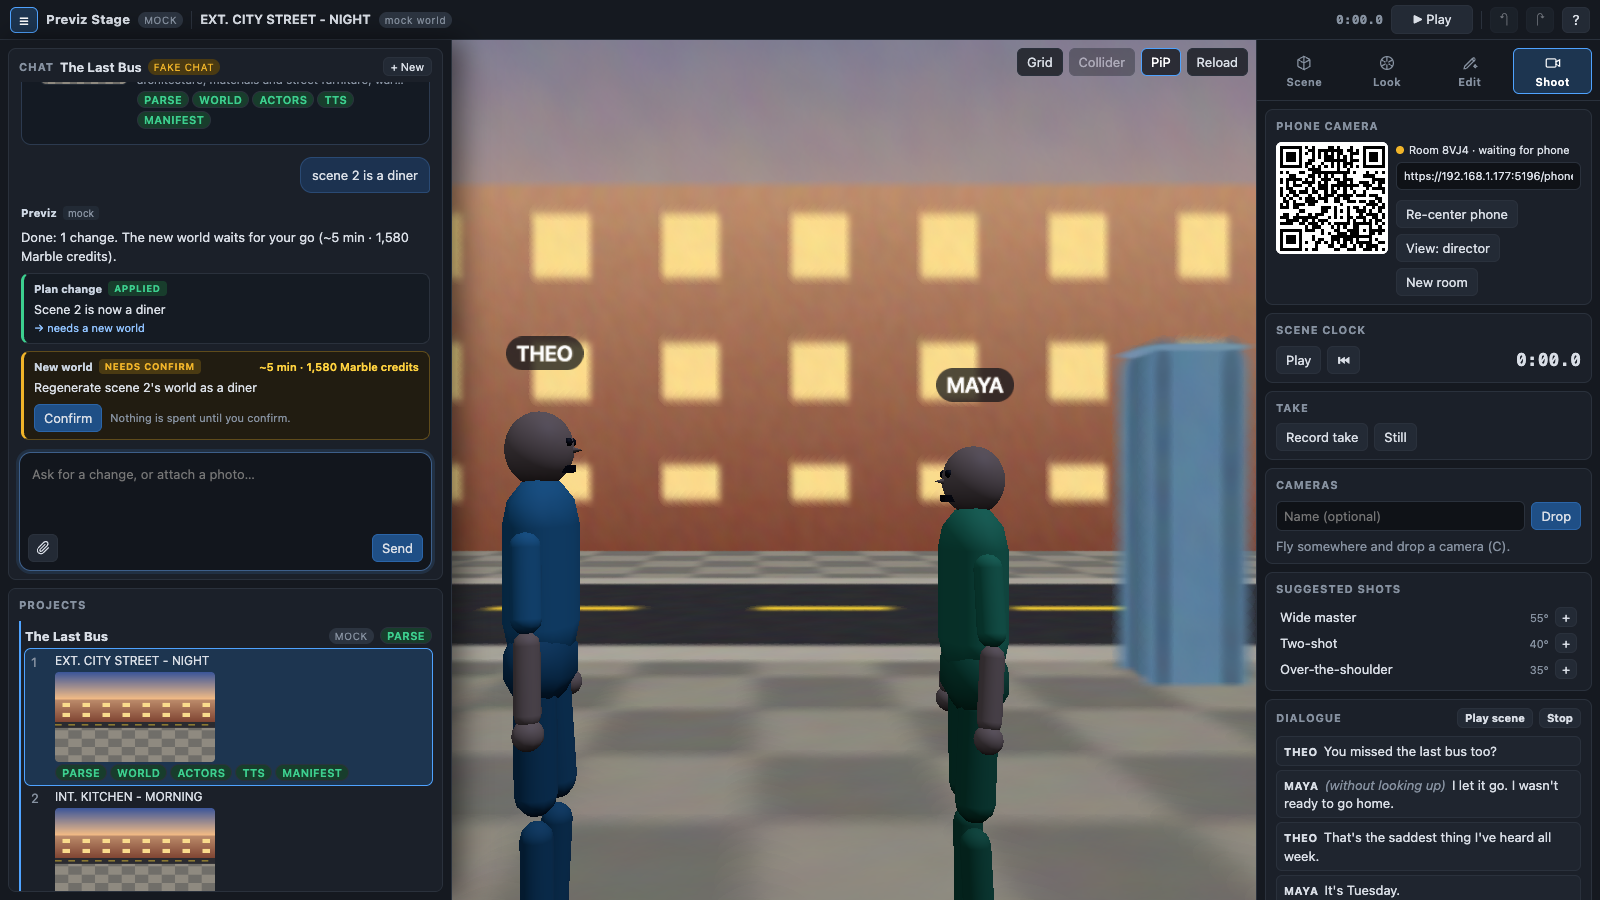
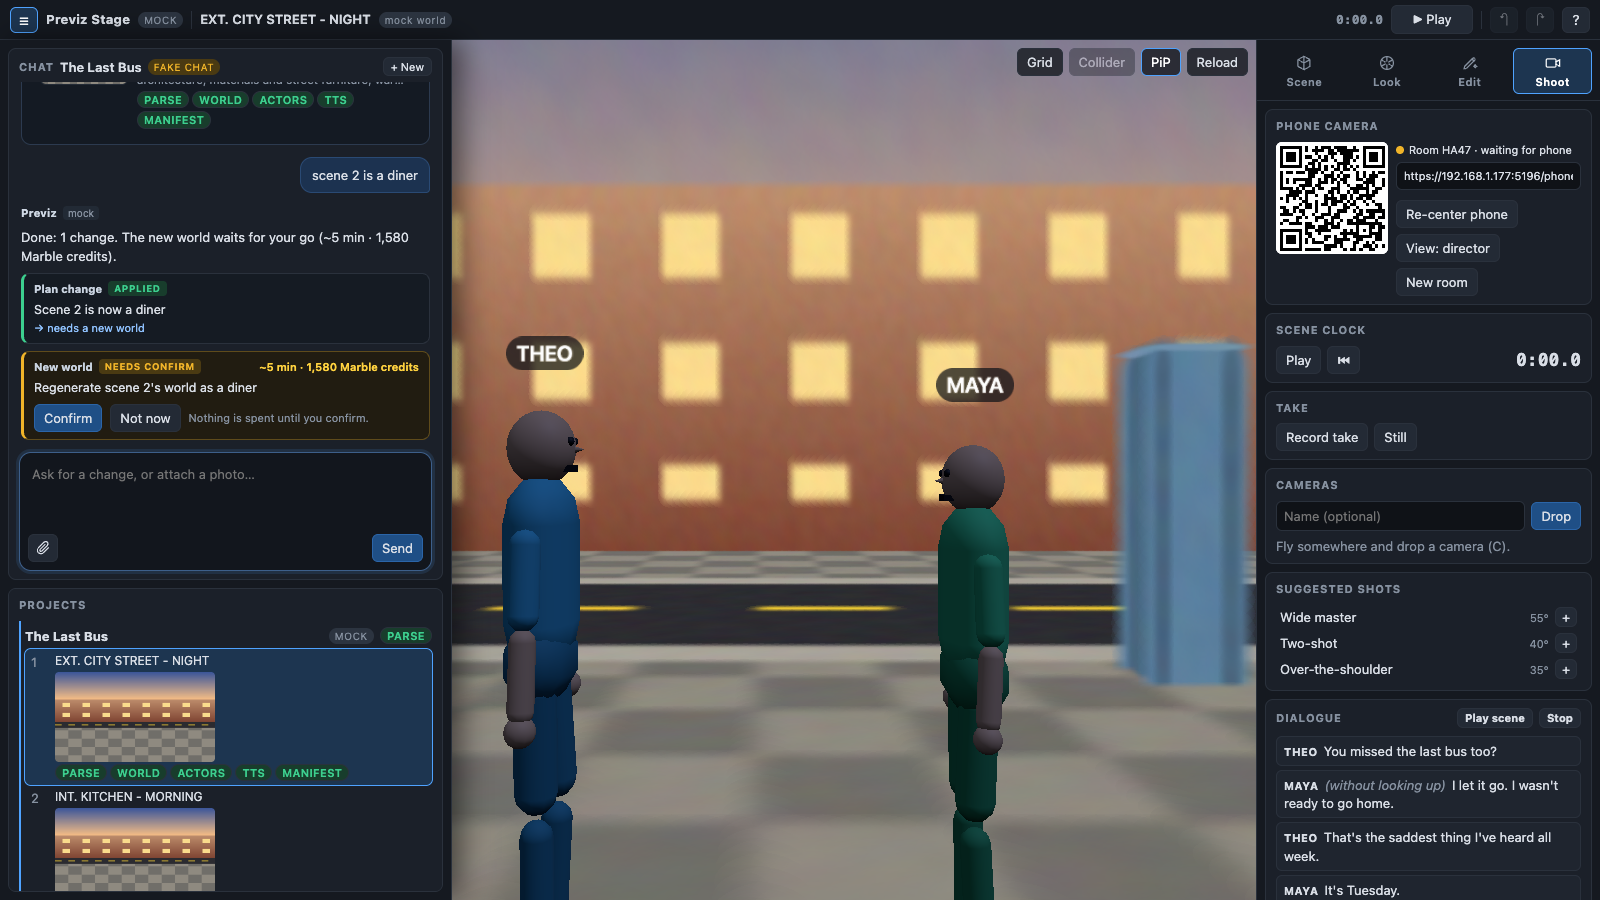
laptop chat on the 635d3b1 contract: ChatResponse from shared/chat, api.plan(id), no attachments on project creation (photos follow as the next message), scene hints are the 0-based ScenePlan.index (labelled Scene 1…), Not now on needs-confirm cards (confirm decline → skipped, also in the fake), ref

diff --git a/web/src/laptop/api.ts b/web/src/laptop/api.ts
@@ -1,5 +1,5 @@
 import { api } from '@shared/api';
-import type { Attachment, ChatRequest, ProjectChat } from '@shared/chat';
+import type { Attachment, ChatRequest, ChatResponse, ProjectChat } from '@shared/chat';
 import type { ActorDetail, ProjectStatus, ScreenplayPlan } from '@shared/schema';
 
 export interface Health {
@@ -53,12 +53,6 @@ export const newRoom = (keep?: string) =>
 
 // ---- project chat (shared/chat.ts; chat-client.ts wraps these with image preparation) -----------
 
-/** POST chat / chat/confirm answer (shared/api.ts "ChatResponse"). */
-export interface ChatResponse {
-  chat: ProjectChat;
-  status: ProjectStatus;
-}
-
 /** JSON or a readable error: the server's `error` text when it sent one, plus the HTTP status. */
 async function call<T>(url: string, init?: RequestInit): Promise<T> {
   let res: Response;
@@ -78,17 +72,15 @@ async function call<T>(url: string, init?: RequestInit): Promise<T> {
 const postJson = <T>(url: string, body: unknown) =>
   call<T>(url, { method: 'POST', headers: { 'content-type': 'application/json' }, body: JSON.stringify(body) });
 
-/** draft: only the parse stage runs until /generate (the chat-first flow). */
-export const createDraftProject = (screenplay: string, title?: string, attachments?: string[]) =>
-  postJson<ProjectStatus>(api.projects, {
-    screenplay,
-    draft: true,
-    ...(title ? { title } : {}),
-    ...(attachments?.length ? { attachments } : {}),
-  });
+/**
+ * draft: only the parse stage runs until /generate (the chat-first flow); the server seeds the
+ * thread with the screenplay and the plan card. Photos follow as the next chat message.
+ */
+export const createDraftProject = (screenplay: string, title?: string) =>
+  postJson<ProjectStatus>(api.projects, { screenplay, draft: true, ...(title ? { title } : {}) });
 
-/** plan.json sits in the project root with every other built asset (/projects/:id/**). */
-export const getPlan = (id: string) => call<ScreenplayPlan>(api.upload(id, 'plan.json'));
+/** The ScreenplayPlan, once parse is done (it does not exist before). */
+export const getPlan = (id: string) => call<ScreenplayPlan>(api.plan(id));
 
 /** Raw image upload (PNG / JPEG / WebP body, ≤ 12 MB) → Attachment (201). */
 export const uploadAttachment = (id: string, body: Blob, name: string) =>
@@ -100,6 +92,7 @@ export const uploadAttachment = (id: string, body: Blob, name: string) =>
 
 export const getChat = (id: string) => call<ProjectChat>(api.chat(id));
 export const sendChat = (id: string, req: ChatRequest) => postJson<ChatResponse>(api.chat(id), req);
-export const confirmChatAction = (id: string, messageId: string, actionId: string) =>
-  postJson<ChatResponse>(api.chatConfirm(id), { messageId, actionId });
+/** Runs a needs-confirm action, or with `decline` marks it skipped. */
+export const confirmChatAction = (id: string, messageId: string, actionId: string, decline = false) =>
+  postJson<ChatResponse>(api.chatConfirm(id), { messageId, actionId, ...(decline ? { decline } : {}) });
 export const generateProject = (id: string) => postJson<ProjectStatus>(api.generate(id), {});

diff --git a/web/src/laptop/chat-panel.ts b/web/src/laptop/chat-panel.ts
@@ -60,7 +60,7 @@ interface Draft {
   url: string;
   image: PreparedImage | null;
   error: string | null;
-  /** ChatRequest hint: "" | "character:<id>" | "scene:<n>" */
+  /** ChatRequest hint: "" | "character:<id>" | "scene:<0-based ScenePlan.index>" */
   hint: string;
 }
 
@@ -302,9 +302,9 @@ export function mountChatPanel(
       const t = thr(p.id);
       const rev = p.chatRevision ?? 0;
       if (p.parse.status === 'done' && t.planTried !== rev) void loadPlan(p.id, rev);
-      // an empty thread (revision 0, or a server without chat) is not fetched at all
-      if (rev > 0 && !pending.has(p.id) && (t.chat?.revision !== rev || hasRunning(t.chat)))
-        void loadChat(p.id);
+      // every change (messages, action status) bumps the revision; an empty thread (revision 0,
+      // or a server without chat) is not fetched at all
+      if (rev > 0 && !pending.has(p.id) && t.chat?.revision !== rev) void loadChat(p.id);
       if (p.parse.status === 'failed' && firstAttach.delete(p.id)) generateAfterFirst.delete(p.id);
       void flushFirst(p.id);
     }
@@ -391,14 +391,20 @@ export function mountChatPanel(
     }
   };
 
-  const confirmAction = async (id: string, messageId: string, actionId: string) => {
+  /** Runs a needs-confirm action, or (decline) marks it skipped. */
+  const confirmAction = async (
+    id: string,
+    messageId: string,
+    actionId: string,
+    decline = false,
+  ) => {
     confirming.add(actionId);
     errors.delete(id);
     renderAll();
     try {
-      accept(id, await chat.confirm(id, messageId, actionId));
+      accept(id, await chat.confirm(id, messageId, actionId, decline));
     } catch (err) {
-      errors.set(id, `Not confirmed: ${message(err)}`);
+      errors.set(id, `${decline ? 'Not declined' : 'Not confirmed'}: ${message(err)}`);
     } finally {
       confirming.delete(actionId);
       renderAll();
@@ -849,7 +855,18 @@ export function mountChatPanel(
                 title: `${a.summary}${cost ? ` (${cost})` : ''}`,
                 onclick: () => void confirmAction(p.id, m.id, a.id),
               },
-              busy ? 'Starting…' : 'Confirm',
+              busy ? 'Working…' : 'Confirm',
+            ),
+            h(
+              'button',
+              {
+                type: 'button',
+                'data-testid': 'action-decline',
+                disabled: busy,
+                title: 'Keep things as they are (the card is marked skipped)',
+                onclick: () => void confirmAction(p.id, m.id, a.id, true),
+              },
+              'Not now',
             ),
             h('span', { class: 'muted small' }, 'Nothing is spent until you confirm.'),
           )

diff --git a/web/src/laptop/chat-model.ts b/web/src/laptop/chat-model.ts
@@ -65,8 +65,9 @@ export function scriptOutline(text: string): { characters: string[]; headings: s
 }
 
 /**
- * Attachment targets: none, every character, every scene. With a plan the hints use character ids;
- * before it (the first message) they use the cue names, which the server resolves by name.
+ * Attachment targets: none, every character, every scene ("scene:<0-based index>", labelled with
+ * the director's 1-based number). With a plan the hints use character ids; before it (the first
+ * message) they use the cue names, which the server resolves by name.
  */
 export function targetOptions(plan: ScreenplayPlan | null, screenplay = ''): TargetOption[] {
   const out: TargetOption[] = [{ value: '', label: 'No target' }];
@@ -75,7 +76,7 @@ export function targetOptions(plan: ScreenplayPlan | null, screenplay = ''): Tar
       out.push({ value: `character:${c.id}`, label: displayName(c.name), group: 'character' });
     for (const s of plan.scenes)
       out.push({
-        value: `scene:${s.index + 1}`,
+        value: `scene:${s.index}`,
         label: `Scene ${s.index + 1} · ${s.heading}`,
         group: 'scene',
       });
@@ -89,16 +90,16 @@ export function targetOptions(plan: ScreenplayPlan | null, screenplay = ''): Tar
       group: 'character',
     });
   headings.forEach((hd, i) =>
-    out.push({ value: `scene:${i + 1}`, label: `Scene ${i + 1} · ${hd}`, group: 'scene' }),
+    out.push({ value: `scene:${i}`, label: `Scene ${i + 1} · ${hd}`, group: 'scene' }),
   );
   return out;
 }
 
-/** "Maya" / "Scene 2" for a hint; null when it names nothing in the plan. */
+/** "Maya" / "Scene 2" (for "scene:1") for a hint; null when there is none. */
 export function hintLabel(hint: string | undefined, plan: ScreenplayPlan | null): string | null {
   if (!hint) return null;
   const [kind, ref = ''] = hint.split(':');
-  if (kind === 'scene') return `Scene ${ref}`;
+  if (kind === 'scene') return `Scene ${Number(ref) + 1}`;
   if (kind === 'character') {
     const c = plan ? findCharacter(plan, ref) : undefined;
     return c ? displayName(c.name) : displayName(ref);

diff --git a/web/src/laptop/chat-fake.ts b/web/src/laptop/chat-fake.ts
@@ -110,7 +110,8 @@ export function mockChatReply(input: RuleInput): RuleResult {
   for (const a of input.attachments) {
     const [kind, ref = ''] = (a.hint ?? '').split(':');
     let character = kind === 'character' ? findCharacter(plan, ref) : undefined;
-    let scene = kind === 'scene' ? plan.scenes[Number(ref) - 1] : undefined;
+    // hints carry the 0-based ScenePlan.index; spoken "scene 2" below is 1-based
+    let scene = kind === 'scene' ? plan.scenes[Number(ref)] : undefined;
     if (!a.hint) {
       const who = /\bthis is\s+(?:the\s+)?([\p{L}][\p{L}'’-]*)/iu.exec(text)?.[1];
       const where = /\buse this for\s+(?:scene\s+(\d+)|(?:the\s+)?([\p{L}-]+))/iu.exec(text);
@@ -317,7 +318,7 @@ export function mockChatReply(input: RuleInput): RuleResult {
         const before = s.worldPrompt;
         s.worldPrompt = `${cap(words)}. ${before}`.slice(0, 600);
         patch(
-          `scene:${s.index + 1}`,
+          `scene:${s.index}`,
           'worldPrompt',
           before,
           s.worldPrompt,
@@ -653,13 +654,24 @@ export class FakeChatApi implements ChatApi {
     return this.response(p);
   }
 
-  async confirm(id: string, messageId: string, actionId: string): Promise<ChatResponse> {
+  async confirm(
+    id: string,
+    messageId: string,
+    actionId: string,
+    decline = false,
+  ): Promise<ChatResponse> {
     const p = await this.project(id);
     const action = p.chat.messages
       .find((m) => m.id === messageId)
       ?.actions?.find((a) => a.id === actionId);
     if (!action) throw new Error('no such action (HTTP 404)');
     if (action.status !== 'needs-confirm') return this.response(p);
+    if (decline) {
+      action.status = 'skipped';
+      action.note = 'Declined: the current world stays.';
+      this.bump(p);
+      return this.response(p);
+    }
     action.status = 'running';
     this.bump(p);
     const index = 'sceneIndex' in action ? action.sceneIndex : null;

diff --git a/tests/e2e/chat.spec.ts b/tests/e2e/chat.spec.ts
@@ -1,6 +1,7 @@
 // (c) Project chat on the real MOCK server: Send the screenplay → the plan card (3 scenes, the
 // cast) → amend in words ("make Theo taller") → a reference photo for Maya through the attachment
-// target picker → Generate on the plan card → the scenes build and the first ready scene opens.
+// target picker → Generate on the plan card → the scenes build and the first ready scene opens →
+// on the live project a world change waits for a confirm, and "Not now" declines it.
 // Needs the chat routes (shared/api.ts: uploads, chat, generate); CHAT_E2E=1 turns it on.
 import { expect, test, type Page } from '@playwright/test';
 import { FIXTURE, laptopState, watchPage } from './helpers.ts';
@@ -92,6 +93,16 @@ test('chat: plan → "make Theo taller" → photo for Maya → Generate → the 
   await expect(
     page.locator(`[data-testid=project][data-id="${s.projectId}"] [data-testid=scene-row]`),
   ).toHaveCount(3);
+
+  // live now: a new set for scene 2 waits for a confirm with its cost; "Not now" skips it
+  await page.getByTestId('screenplay').fill('scene 2 is a diner');
+  await page.getByTestId('screenplay').press('Enter');
+  const regen = page.locator('[data-testid=action-card][data-type=regenerate-world]').last();
+  await expect(regen).toHaveAttribute('data-status', 'needs-confirm', { timeout: 20_000 });
+  await expect(regen).toContainText('1,580 Marble credits');
+  await regen.getByTestId('action-decline').click();
+  await expect(regen).toHaveAttribute('data-status', 'skipped');
+  await expect(regen.getByTestId('action-confirm')).toHaveCount(0);
 
   expect(problems).toEqual([]);
 });

diff --git a/web/src/laptop/chat-model.test.ts b/web/src/laptop/chat-model.test.ts
@@ -2,7 +2,7 @@ import { readFileSync } from 'node:fs';
 import { describe, expect, it } from 'vitest';
 import { mockPlan } from '../../../server/pipeline/fountain.ts';
 import { fitWithin, pngName } from './chat-client';
-import { patchDiff, planSummary, scriptOutline, targetOptions } from './chat-model';
+import { hintLabel, patchDiff, planSummary, scriptOutline, targetOptions } from './chat-model';
 
 const FIXTURE = readFileSync(
   new URL('../../../fixtures/screenplay.fountain', import.meta.url),
@@ -15,15 +15,22 @@ describe('chat helpers', () => {
       '',
       'character:theo',
       'character:maya',
+      'scene:0',
       'scene:1',
       'scene:2',
-      'scene:3',
     ]);
     // the first message: cue names from the text (the server resolves names as well as ids)
     expect(scriptOutline(FIXTURE)).toEqual({
       characters: ['THEO', 'MAYA'],
       headings: ['EXT. CITY STREET - NIGHT', 'INT. KITCHEN - MORNING', 'EXT. ROOFTOP - DUSK'],
     });
+    // scene hints carry the 0-based index, labelled with the director's 1-based number
+    expect(targetOptions(null, FIXTURE)[3]).toEqual({
+      value: 'scene:0',
+      label: 'Scene 1 · EXT. CITY STREET - NIGHT',
+      group: 'scene',
+    });
+    expect(hintLabel('scene:1', null)).toBe('Scene 2');
     expect(targetOptions(null, FIXTURE)[1]).toEqual({
       value: 'character:theo',
       label: 'Theo',

diff --git a/web/src/laptop/chat-client.ts b/web/src/laptop/chat-client.ts
@@ -15,8 +15,8 @@ import {
   listProjects,
   sendChat,
   uploadAttachment,
-  type ChatResponse,
 } from './api';
+import type { ChatResponse } from '@shared/chat';
 
 export type { ChatResponse };
 
@@ -32,10 +32,16 @@ export interface ChatApi {
   uploadImage(projectId: string, image: File | Blob, name?: string): Promise<Attachment>;
   getChat(projectId: string): Promise<ProjectChat>;
   send(projectId: string, req: ChatRequest): Promise<ChatResponse>;
-  confirm(projectId: string, messageId: string, actionId: string): Promise<ChatResponse>;
+  /** Runs a needs-confirm action; `decline` marks it skipped instead. */
+  confirm(
+    projectId: string,
+    messageId: string,
+    actionId: string,
+    decline?: boolean,
+  ): Promise<ChatResponse>;
   generate(projectId: string): Promise<ProjectStatus>;
-  /** Chat-first project: only the parse stage runs until generate(). */
-  createDraft(screenplay: string, title?: string, attachmentIds?: string[]): Promise<ProjectStatus>;
+  /** Chat-first project: only the parse stage runs until generate(); photos follow as a chat message. */
+  createDraft(screenplay: string, title?: string): Promise<ProjectStatus>;
   /** Everything runs at once (the pre-chat Generate). */
   createProject(screenplay: string, title?: string): Promise<ProjectStatus>;
 }

diff --git a/web/src/laptop/chat-fake.test.ts b/web/src/laptop/chat-fake.test.ts
@@ -109,7 +109,11 @@ describe('mock chat planner rules', () => {
     expect(kinds(reply('use this for scene 2', false, [photo()]).actions)).toEqual([
       'world-reference:applied',
     ]);
-    expect(kinds(reply('', true, [photo('scene:3')]).actions)).toEqual([
+    // hints carry the 0-based scene index
+    expect(reply('', false, [photo('scene:0')]).actions).toMatchObject([
+      { type: 'world-reference', sceneIndex: 0 },
+    ]);
+    expect(kinds(reply('', true, [photo('scene:2')]).actions)).toEqual([
       'world-reference:applied',
       'regenerate-world:needs-confirm',
     ]);
@@ -172,5 +176,15 @@ describe('FakeChatApi', () => {
       'running',
     );
     expect(confirmed.status.scenes[1]!.stages.world.status).toBe('running');
+
+    // declining marks the card skipped and bumps the revision
+    const again = await fake.send(draft.id, { text: 'scene 3 is a beach' });
+    const m2 = again.chat.messages.at(-1)!;
+    const ask = m2.actions!.find((a) => a.status === 'needs-confirm')!;
+    const declined = await fake.confirm(draft.id, m2.id, ask.id, true);
+    expect(declined.chat.messages.at(-1)!.actions!.find((a) => a.id === ask.id)!.status).toBe(
+      'skipped',
+    );
+    expect(declined.chat.revision).toBeGreaterThan(again.chat.revision);
   });
 });

diff --git a/docs/PLAN-v2.md b/docs/PLAN-v2.md
@@ -78,8 +78,8 @@ shortcut keep working. The shortcuts are ignored while typing in the chat.
 | --- | --- |
 | Thread | User bubbles (the screenplay collapsed to its first lines, photo thumbnails captioned with their target); assistant bubbles with the reply, the planner (`mock` / `claude`) and its cost |
 | Plan card | Title; the cast (photo or initial, height, voice, description); the scenes (Marble thumbnail or the set photo, heading, time of day, world prompt, stage chips once generating; a ready scene opens on click); a prominent **Generate N scenes** while the project is a draft. Only the latest plan card is drawn in full; older ones collapse to a line |
-| Action cards | One per `ChatAction`: kind, status chip (applied / needs confirm / running / done / failed / skipped), summary, `before → after` of a plan patch, effect, note, cost, the photo it used; **Confirm** on needs-confirm (POST chat/confirm) |
-| Composer | Auto-growing box. A new project's screenplay takes Enter as a newline (⌘Enter sends); in a thread Enter sends and Shift+Enter adds a newline. Attach button, drag-and-drop and paste of images; chips with a thumbnail, the prepared size and a target picker (none / each character / each scene → the request's `hint`); Sample; **Send** and **Generate** (first message: the pre-chat Generate, everything at once; later: POST /generate after sending what was typed) |
+| Action cards | One per `ChatAction`: kind, status chip (applied / needs confirm / running / done / failed / skipped), summary, `before → after` of a plan patch, effect, note, cost, the photo it used; **Confirm** on needs-confirm (POST chat/confirm) and **Not now** (`decline: true` → skipped) |
+| Composer | Auto-growing box. A new project's screenplay takes Enter as a newline (⌘Enter sends); in a thread Enter sends and Shift+Enter adds a newline. Attach button, drag-and-drop and paste of images; chips with a thumbnail, the prepared size and a target picker (none / each character / each scene → the request's `hint`: `character:<id>`, `scene:<0-based index>` labelled “Scene 1…”); Sample; **Send** and **Generate** (first message: the pre-chat Generate, everything at once; later: POST /generate after sending what was typed) |
 | States | "Thinking" / "Uploading photo 1 of 2" placeholder while a request runs, composer read-only; errors inline with the message given back to the composer; "Reading the screenplay" while the draft parses |
 
 Images are decoded, downscaled to ≤ 1600 px on the long side and re-encoded as PNG in the browser
@@ -88,9 +88,10 @@ after). Photos attached to the very first message are uploaded once the draft ex
 second message, after the plan is read: uploads need a project id. Their character targets, picked from
 the screenplay's cue names before any plan existed, are mapped to the plan's ids.
 
-The thread is server state: refetched when `ProjectStatus.chatRevision` changes, polled with the project
+The thread is server state: a draft's thread is seeded by the server (screenplay + plan card), and every change, action status included, bumps `ProjectStatus.chatRevision`; the laptop refetches when it changes, polled with the project
 list (every 1.5 s while the draft parses, a request or an action runs). A project without a thread (created
-by the pre-chat Generate on an older server) still gets its plan card from `plan.json`. Opening a scene
+by the pre-chat Generate) still gets the screenplay bubble and its plan card from `plan.json`; the
+server's messages win whenever there are any. Opening a scene
 switches the chat to that scene's project. So does clicking a project's name in the list, and **+ New**
 starts another. A draft in progress comes back after a reload.
 
